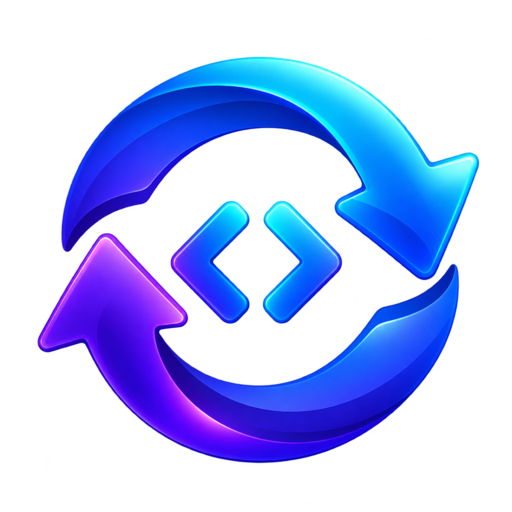
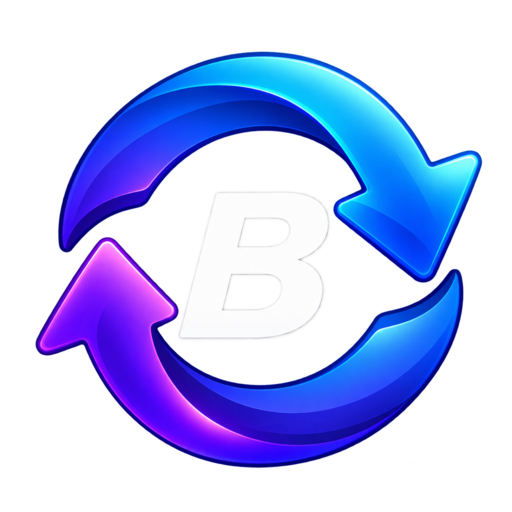
feat: organiza sincronização em fluxo guiado (#10)

diff --git a/tools/studio_sync/static/index.html b/tools/studio_sync/static/index.html
@@ -5,59 +5,52 @@
   <meta name="viewport" content="width=device-width,initial-scale=1">
   <meta name="theme-color" content="#11131c">
   <title>Studio Extensões | Sincronizador</title>
+  <link rel="icon" type="image/png" href="studio-sync.png">
   <link rel="stylesheet" href="/styles.css">
 </head>
 <body>
   <header>
     <div class="header-inner">
-      <div class="brand"><span class="mark">B</span><div><strong>Studio Extensões</strong><small>Sincronizador local</small></div></div>
+      <div class="brand"><img class="mark" src="studio-sync.png" alt=""><div><strong>Studio Extensões</strong><small>Sincronizador local</small></div></div>
       <button class="quiet" id="close">Encerrar</button>
     </div>
   </header>
 
   <main>
     <section class="page-heading">
-      <div><span class="eyebrow">SINCRONIZAÇÃO</span><h1>Artefatos do Studio</h1><p>Compare scripts, componentes, críticas, fontes dinâmicas e relatórios com seu repositório local.</p></div>
+      <div><span class="eyebrow">SINCRONIZAÇÃO</span><h1>Artefatos do Studio</h1><p id="step-description">Entre com sua conta Betha para iniciar.</p></div>
       <div class="status"><span class="status-dot"></span><div><small>Status</small><strong id="status">Carregando...</strong></div></div>
     </section>
 
-    <aside class="network-notice" role="note" aria-label="Requisito de conexão">
-      <span class="network-notice-icon" aria-hidden="true">⌁</span>
-      <div><strong>Conexão com a rede Betha necessária</strong><span>Antes de autenticar ou sincronizar, conecte-se à rede corporativa ou à VPN da Betha.</span></div>
-    </aside>
+    <nav class="wizard-steps" aria-label="Etapas da sincronização">
+      <button class="wizard-step active" data-step="1"><span>1</span><div><strong>Autenticação</strong><small>Conta Betha</small></div></button>
+      <button class="wizard-step" data-step="2" disabled><span>2</span><div><strong>Origem</strong><small>Entidade e sistema</small></div></button>
+      <button class="wizard-step" data-step="3" disabled><span>3</span><div><strong>Destino</strong><small>Pasta local</small></div></button>
+      <button class="wizard-step" data-step="4" disabled><span>4</span><div><strong>Sincronização</strong><small>Revisar e aplicar</small></div></button>
+    </nav>
 
-    <section class="next-step" id="next-step">
-      <span class="next-step-number" id="next-step-number">1</span>
-      <div><small>PRÓXIMO PASSO</small><strong id="next-step-text">Entre com sua conta Betha para começar.</strong></div>
+    <section class="wizard-panel auth-panel" data-panel="1">
+      <div class="wizard-card-copy"><span class="eyebrow">ETAPA 1 DE 4</span><h2>Conecte sua conta Betha</h2><p>A autenticação abre a página oficial do Studio Extensões. Conclua também o MFA quando solicitado.</p></div>
+      <aside class="network-notice" role="note" aria-label="Requisito de conexão">
+        <span class="network-notice-icon" aria-hidden="true">⌁</span>
+        <div><strong>Conexão com a rede Betha necessária</strong><span>Conecte-se à rede corporativa ou à VPN antes de continuar.</span></div>
+      </aside>
+      <div class="account-summary"><div><small>CONTA ATUAL</small><strong id="account">Nenhuma sessão conectada</strong></div><button class="button primary" id="login">Entrar no Studio Extensões <span>↗</span></button></div>
     </section>
 
-    <section class="setup">
-      <div class="section-title"><span>Configuração</span><small>Defina a origem e o destino da sincronização</small></div>
-
-      <div class="setup-grid">
-        <div class="field account-field">
-          <label>Conta Betha</label>
-          <div class="account" id="account">Nenhuma sessão conectada</div>
-          <button class="button secondary" id="login">Entrar no Studio Extensões <span>↗</span></button>
-        </div>
-
-        <div class="field">
-          <label for="entity">Entidade</label>
-          <select id="entity" disabled><option>Autentique-se primeiro</option></select>
-        </div>
-
-        <div class="field">
-          <label for="access">Sistema</label>
-          <select id="access" disabled><option>Selecione uma entidade</option></select>
-        </div>
-
-        <div class="field destination-field">
-          <label for="folder">Repositório local</label>
-          <div class="folder"><input id="folder" placeholder="Nenhuma pasta selecionada" readonly><button id="choose">Escolher</button></div>
-        </div>
+    <section class="wizard-panel" data-panel="2" hidden>
+      <div class="wizard-card-copy"><span class="eyebrow">ETAPA 2 DE 4</span><h2>Selecione a origem</h2><p>Escolha a entidade e o sistema do Studio Extensões que deseja comparar.</p></div>
+      <div class="context-grid">
+        <div class="field"><label for="entity">Entidade</label><select id="entity" disabled><option>Autentique-se primeiro</option></select></div>
+        <div class="field"><label for="access">Sistema</label><select id="access" disabled><option>Selecione uma entidade</option></select></div>
       </div>
+      <div class="wizard-actions"><button class="button secondary wizard-back" data-target="1">← Voltar</button><button class="button primary" id="context-next" disabled>Continuar <span>→</span></button></div>
+    </section>
 
-      <div class="setup-footer">
+    <section class="wizard-panel" data-panel="3" hidden>
+      <div class="wizard-card-copy"><span class="eyebrow">ETAPA 3 DE 4</span><h2>Escolha o destino local</h2><p>Selecione a pasta e quais tipos de artefato serão analisados.</p></div>
+      <div class="field destination-field"><label for="folder">Repositório local</label><div class="folder"><input id="folder" placeholder="Nenhuma pasta selecionada" readonly><button id="choose">Escolher pasta</button></div></div>
+      <div class="artifact-options"><small>ARTEFATOS</small>
         <div class="toggles">
           <label><input id="job" type="checkbox" checked> Scripts</label>
           <label><input id="component" type="checkbox" checked> Componentes</label>
@@ -65,14 +58,14 @@
           <label><input id="dynamic-source" type="checkbox" checked> Fontes dinâmicas</label>
           <label><input id="report" type="checkbox" checked> Relatórios</label>
         </div>
-        <button class="button primary" id="analyze">Analisar diferenças <span>→</span></button>
       </div>
+      <div class="wizard-actions"><button class="button secondary wizard-back" data-target="2">← Voltar</button><button class="button primary" id="analyze">Analisar diferenças <span>→</span></button></div>
     </section>
 
-    <section class="results">
+    <section class="wizard-panel results" data-panel="4" hidden>
       <div class="results-head">
-        <div><span class="eyebrow">PRÉVIA</span><h2>Alterações encontradas</h2></div>
-        <button class="button secondary" id="undo" disabled>Desfazer última sincronização</button>
+        <div><span class="eyebrow">ETAPA 4 DE 4</span><h2>Alterações encontradas</h2><p>Revise os itens antes de sincronizar.</p></div>
+        <div class="results-actions"><button class="button secondary wizard-back" data-target="3">← Trocar pasta</button><button class="button secondary" id="change-context">Trocar entidade/sistema</button><button class="button secondary" id="undo" disabled>Desfazer última sincronização</button></div>
       </div>
 
       <div class="metrics">

diff --git a/tools/studio_sync/static/styles.css b/tools/studio_sync/static/styles.css
@@ -23,11 +23,12 @@ header { height: 60px; border-top: 2px solid var(--violet); border-bottom: 1px s
 .brand div { display: grid; }
 .brand strong { font-size: 14px; }
 .brand small { color: var(--muted); font-size: 10px; }
-.mark { width: 31px; height: 31px; display: grid; place-items: center; border-radius: 7px; background: linear-gradient(145deg, var(--violet), var(--blue)); font-weight: 900; font-style: italic; }
+.mark { width: 34px; height: 34px; display: block; object-fit: contain; filter: drop-shadow(0 1px 2px rgba(0,0,0,.35)); }
 .quiet { padding: 7px 12px; color: #c2c9d6; background: transparent; border: 1px solid var(--line); border-radius: 6px; cursor: pointer; }
 .quiet:hover { background: var(--surface-soft); }
 
 main { width: 100%; max-width: 1600px; margin: auto; padding: 30px clamp(12px, 2vw, 32px) 56px; }
+[hidden] { display: none !important; }
 .page-heading { display: flex; align-items: end; justify-content: space-between; gap: 30px; margin-bottom: 22px; }
 .eyebrow { color: #79a5ff; font-size: 10px; font-weight: 800; letter-spacing: .13em; }
 h1 { margin: 6px 0 4px; font-size: 28px; letter-spacing: -.025em; }
@@ -47,6 +48,36 @@ h1 { margin: 6px 0 4px; font-size: 28px; letter-spacing: -.025em; }
 .next-step div { display: grid; gap: 2px; }
 .next-step small { color: #79a5ff; font-size: 8px; font-weight: 800; letter-spacing: .12em; }
 .next-step strong { color: #dce6fa; font-size: 11px; line-height: 1.35; }
+
+.wizard-steps { display: grid; grid-template-columns: repeat(4, 1fr); margin-bottom: 16px; border: 1px solid var(--line); border-radius: 10px; overflow: hidden; background: #11141d; }
+.wizard-step { min-width: 0; min-height: 66px; display: flex; align-items: center; gap: 10px; padding: 12px 16px; color: #8994a8; text-align: left; background: transparent; border: 0; border-right: 1px solid var(--line); cursor: pointer; }
+.wizard-step:last-child { border-right: 0; }
+.wizard-step > span { width: 28px; height: 28px; flex: 0 0 auto; display: grid; place-items: center; color: #a7b1c3; border: 1px solid #3a4356; border-radius: 50%; font-size: 11px; font-weight: 800; }
+.wizard-step div { min-width: 0; display: grid; gap: 3px; }
+.wizard-step strong { overflow: hidden; font-size: 11px; text-overflow: ellipsis; white-space: nowrap; }
+.wizard-step small { overflow: hidden; color: #687489; font-size: 9px; text-overflow: ellipsis; white-space: nowrap; }
+.wizard-step.active { color: #edf3ff; background: rgba(57,115,231,.12); box-shadow: inset 0 -2px #3973e7; }
+.wizard-step.active > span { color: white; background: var(--blue); border-color: var(--blue); }
+.wizard-step.complete > span { color: #80ddc0; background: rgba(69,197,154,.1); border-color: rgba(69,197,154,.4); }
+.wizard-step:disabled { cursor: default; opacity: .48; }
+.wizard-step.active:disabled { opacity: 1; }
+.wizard-panel { padding: clamp(20px, 3vw, 34px); border: 1px solid var(--line); border-radius: 10px; background: var(--surface); }
+.wizard-card-copy { max-width: 720px; margin-bottom: 24px; }
+.wizard-card-copy h2 { margin: 6px 0 7px; font-size: 22px; }
+.wizard-card-copy p, .results-head p { margin: 0; color: var(--muted); font-size: 12px; line-height: 1.5; }
+.auth-panel { max-width: 780px; margin: 0 auto; }
+.auth-panel .network-notice { margin: 0 0 18px; }
+.account-summary { display: flex; align-items: center; justify-content: space-between; gap: 20px; padding: 16px; border: 1px solid var(--line); border-radius: 8px; background: #10131c; }
+.account-summary > div { min-width: 0; display: grid; gap: 4px; }
+.account-summary small, .artifact-options > small { color: #7f8ba1; font-size: 8px; font-weight: 800; letter-spacing: .12em; }
+.account-summary strong { overflow: hidden; color: #dfe6f2; font-size: 12px; text-overflow: ellipsis; }
+.context-grid { display: grid; grid-template-columns: 1fr 1fr; gap: 18px; max-width: 920px; }
+.artifact-options { margin-top: 18px; padding: 16px; border: 1px solid var(--line); border-radius: 8px; background: #11141d; }
+.artifact-options .toggles { margin-top: 12px; }
+.wizard-actions { display: flex; justify-content: space-between; gap: 12px; margin-top: 28px; padding-top: 18px; border-top: 1px solid var(--line); }
+.wizard-actions .secondary { margin-top: 0; }
+.results-actions { display: flex; align-items: center; justify-content: flex-end; gap: 8px; flex-wrap: wrap; }
+.results-actions .secondary { margin-top: 0; }
 
 .setup, .results { border: 1px solid var(--line); border-radius: 10px; background: var(--surface); }
 .setup { padding: 20px; }
@@ -78,7 +109,7 @@ select:focus, input:focus { outline: 2px solid rgba(57,115,231,.35); outline-off
 .button.secondary:hover:not(:disabled) { border-color: #53617e; }
 .button:disabled { opacity: .38; cursor: not-allowed; }
 
-.results { margin-top: 16px; padding: 20px; }
+.results { padding: 20px; }
 .results-head { display: flex; align-items: center; justify-content: space-between; }
 .results h2 { margin: 5px 0 0; font-size: 17px; }
 .metrics { display: grid; grid-template-columns: repeat(5, 1fr); margin: 17px 0; border: 1px solid var(--line); border-radius: 8px; overflow: hidden; background: #11141d; }
@@ -196,6 +227,13 @@ td { padding: 10px 11px; border-bottom: 1px solid #242a38; color: #d9dfeb; verti
   .account-field { grid-row: auto; }
   .destination-field { grid-column: auto; }
   .setup-footer { align-items: stretch; flex-direction: column; gap: 14px; }
+  .wizard-steps { grid-template-columns: repeat(2, 1fr); }
+  .wizard-step:nth-child(2) { border-right: 0; }
+  .wizard-step:nth-child(-n+2) { border-bottom: 1px solid var(--line); }
+  .context-grid { grid-template-columns: 1fr; }
+  .account-summary, .results-head { align-items: stretch; flex-direction: column; }
+  .account-summary .button { width: 100%; }
+  .results-actions { justify-content: flex-start; }
   .filter-tools, .selection-tools { align-items: stretch; flex-wrap: wrap; }
   .script-search { flex-basis: 100%; }
   .status-filters { width: 100%; overflow-x: auto; padding-bottom: 3px; }
@@ -217,6 +255,12 @@ td { padding: 10px 11px; border-bottom: 1px solid #242a38; color: #d9dfeb; verti
 }
 
 @media (max-width: 560px) {
+  .wizard-step { min-height: 54px; padding: 9px; }
+  .wizard-step small { display: none; }
+  .wizard-panel { padding: 18px 14px; }
+  .wizard-actions { align-items: stretch; flex-direction: column-reverse; }
+  .wizard-actions .button, .results-actions .button { width: 100%; }
+  .results-actions { flex-direction: column; }
   .results { padding: 14px 10px; }
   .type-column, .type-cell { display: none; }
   .status-column { width: 88px; }

diff --git a/tools/studio_sync/static/app.js b/tools/studio_sync/static/app.js
@@ -13,6 +13,62 @@ let pageSize = 20;
 let toastTimer;
 let actionController;
 let folderController;
+let currentStep = 1;
+let analysisReady = false;
+
+const stepDescriptions = {
+  1: 'Entre com sua conta Betha para iniciar.',
+  2: 'Selecione a entidade e o sistema de origem.',
+  3: 'Escolha a pasta local e os tipos de artefato.',
+  4: 'Revise as diferenças e sincronize os itens selecionados.'
+};
+
+function contextSelected() {
+  return authenticated && Boolean($('#entity').value) && Boolean($('#access').value) && !$('#access').disabled;
+}
+
+function availableStep() {
+  if (!authenticated) return 1;
+  if (analysisReady) return 4;
+  if (contextSelected()) return 3;
+  return 2;
+}
+
+function updateWizard() {
+  const maximum = availableStep();
+  if (currentStep > maximum) currentStep = maximum;
+  document.querySelectorAll('[data-panel]').forEach(panel => {
+    panel.hidden = Number(panel.dataset.panel) !== currentStep;
+  });
+  document.querySelectorAll('.wizard-step').forEach(step => {
+    const number = Number(step.dataset.step);
+    step.disabled = busy || number > maximum;
+    step.classList.toggle('active', number === currentStep);
+    step.classList.toggle('complete', number < currentStep || number < maximum);
+    step.setAttribute('aria-current', number === currentStep ? 'step' : 'false');
+  });
+  $('#step-description').textContent = stepDescriptions[currentStep];
+  $('#context-next').disabled = busy || !contextSelected();
+  updateAnalyzeAvailability();
+}
+
+function goToStep(step) {
+  if (step > availableStep()) return;
+  currentStep = step;
+  updateWizard();
+  document.querySelector(`[data-panel="${step}"]`)?.querySelector('select, input, button:not(:disabled)')?.focus();
+  window.scrollTo({top: 0, behavior: 'smooth'});
+}
+
+function invalidateAnalysis() {
+  if (!analysisReady && !changes.length) return;
+  analysisReady = false;
+  changes = [];
+  selectedChanges.clear();
+  currentPage = 1;
+  renderChanges();
+  updateWizard();
+}
 
 function toast(message) {
   const element = $('#toast');
@@ -139,19 +195,7 @@ function showLoading(visible, message = 'Aguarde um momento...') {
 }
 
 function updateGuidance() {
-  let step = '1';
-  let message = 'Entre com sua conta Betha para começar.';
-  if (authenticated && !$('#folder').value.trim()) {
-    step = '2'; message = 'Escolha a pasta que será usada como repositório local.';
-  } else if (authenticated && !changes.length) {
-    step = '3'; message = 'Analise as diferenças entre o Studio e o repositório selecionado.';
-  } else if (changes.length && !selectedChanges.size) {
-    step = '4'; message = 'Pesquise e selecione os scripts que deseja sincronizar.';
-  } else if (selectedChanges.size) {
-    step = '5'; message = `Revise e sincronize os ${selectedChanges.size} script(s) selecionado(s).`;
-  }
-  $('#next-step-number').textContent = step;
-  $('#next-step-text').textContent = message;
+  updateWizard();
 }
 
 function updateSelection() {
@@ -172,7 +216,7 @@ function updateSelection() {
 }
 
 function updateAnalyzeAvailability() {
-  $('#analyze').disabled = busy || !$('#folder').value.trim();
+  $('#analyze').disabled = busy || !contextSelected() || !$('#folder').value.trim();
 }
 
 function renderChanges() {
@@ -259,7 +303,7 @@ async function refresh() {
   $('#undo').disabled = busy || !state.canUndo;
   showLoading(busy, state.status);
   renderChanges();
-  updateAnalyzeAvailability();
+  updateWizard();
 }
 
 async function waitUntilIdle() {
@@ -295,9 +339,14 @@ $('#loading-cancel').onclick = async () => {
   catch (_) { toast('A aplicação foi atualizada. Feche-a e abra novamente para habilitar o cancelamento.'); }
 };
 
-$('#login').onclick = () => action(signal => request('/api/authenticate', {
-  method: 'POST', signal, body: JSON.stringify({resetSession: authenticated})
-}));
+$('#login').onclick = () => action(async signal => {
+  await request('/api/authenticate', {
+    method: 'POST', signal, body: JSON.stringify({resetSession: authenticated})
+  });
+  authenticated = true;
+  analysisReady = false;
+  currentStep = 2;
+});
 
 async function browseFolder(path = '') {
   folderController?.abort();
@@ -331,12 +380,30 @@ $('#folder-up').onclick = () => folderParent && browseFolder(folderParent);
 $('#folder-go').onclick = () => browseFolder($('#folder-current').value);
 $('#folder-current').onkeydown = event => { if (event.key === 'Enter') browseFolder(event.currentTarget.value); };
 $('#folder-select').onclick = () => {
+  const changed = $('#folder').value !== $('#folder-current').value;
   $('#folder').value = $('#folder-current').value;
   $('#folder-modal').hidden = true;
   document.body.classList.remove('modal-open');
-  updateAnalyzeAvailability();
-  updateGuidance();
+  if (changed) invalidateAnalysis();
+  updateWizard();
 };
+
+document.querySelectorAll('.wizard-step').forEach(step => {
+  step.onclick = () => goToStep(Number(step.dataset.step));
+});
+document.querySelectorAll('.wizard-back').forEach(button => {
+  button.onclick = () => goToStep(Number(button.dataset.target));
+});
+$('#context-next').onclick = () => goToStep(3);
+$('#change-context').onclick = () => goToStep(2);
+$('#entity').addEventListener('change', () => {
+  invalidateAnalysis();
+  updateWizard();
+});
+$('#access').addEventListener('change', () => {
+  invalidateAnalysis();
+  updateWizard();
+});
 
 let searchTimer;
 $('#script-search').oninput = () => {
@@ -404,6 +471,9 @@ $('#analyze').onclick = () => action(async signal => {
     method: 'POST', signal, body: JSON.stringify({changes: firstPage.map(change => change.index)})
   });
   await loadChanges(false, false);
+  analysisReady = true;
+  currentStep = 4;
+  updateWizard();
 });
 
 $('#sync').onclick = async () => {

diff --git a/tools/studio_sync/static/source.js b/tools/studio_sync/static/source.js
@@ -1,1 +1,1 @@
-(()=>{const entity=document.querySelector('#entity');const system=document.querySelector('#access');let signature='';let loadedEntity='';const escapeText=value=>String(value??'').replace(/[&<>"']/g,char=>({'&':'&amp;','<':'&lt;','>':'&gt;','"':'&quot;',"'":'&#39;'}[char]));function fillSystems(entities){const selected=entities.find(item=>item.id===entity.value);const previous=system.value;system.innerHTML=selected?.systems?.length?selected.systems.map(item=>`<option value="${item.access}">${escapeText(item.label)}</option>`).join(''):'<option value="">Selecione a entidade para consultar os sistemas</option>';system.disabled=!selected?.systems?.length;if([...system.options].some(option=>option.value===previous))system.value=previous}async function loadSystems(){if(!entity.value)return;loadedEntity=entity.value;system.disabled=true;system.innerHTML='<option>Consultando permissões...</option>';try{const response=await fetch('/api/systems',{method:'POST',headers:{'Content-Type':'application/json'},body:JSON.stringify({entity:entity.value})});const data=await response.json();if(!response.ok)throw Error(data.error||'Não foi possível consultar os sistemas');signature='';await refresh()}catch(error){loadedEntity='';system.innerHTML=`<option>${escapeText(error.message)}</option>`}}async function refresh(){try{const response=await fetch('/api/state',{cache:'no-store'});if(!response.ok)return;const state=await response.json();const entities=state.entities||[];const next=JSON.stringify({entities,preferred:state.preferredEntity});if(next===signature)return;signature=next;const previous=entity.value;entity.innerHTML=entities.length?entities.map(item=>`<option value="${escapeText(item.id)}" title="${escapeText(item.label)}">${escapeText(item.label)}</option>`).join(''):'<option value="">Autentique-se primeiro</option>';entity.disabled=!entities.length;if(entities.some(item=>item.id===previous))entity.value=previous;else if(entities.some(item=>item.id===state.preferredEntity))entity.value=state.preferredEntity;entity.title=entity.selectedOptions[0]?.textContent||'';fillSystems(entities);entity.onchange=()=>{entity.title=entity.selectedOptions[0]?.textContent||'';fillSystems(entities);loadSystems()};if(entity.value&&loadedEntity!==entity.value)loadSystems()}catch{}}refresh();setInterval(refresh,1000)})();
+(()=>{const entity=document.querySelector('#entity');const system=document.querySelector('#access');let signature='';let loadedEntity='';const escapeText=value=>String(value??'').replace(/[&<>"']/g,char=>({'&':'&amp;','<':'&lt;','>':'&gt;','"':'&quot;',"'":'&#39;'}[char]));function fillSystems(entities){const selected=entities.find(item=>item.id===entity.value);const previous=system.value;system.innerHTML=selected?.systems?.length?selected.systems.map(item=>`<option value="${item.access}">${escapeText(item.label)}</option>`).join(''):'<option value="">Selecione a entidade para consultar os sistemas</option>';system.disabled=!selected?.systems?.length;if([...system.options].some(option=>option.value===previous))system.value=previous;system.dispatchEvent(new Event('change'))}async function loadSystems(){if(!entity.value)return;loadedEntity=entity.value;system.disabled=true;system.innerHTML='<option>Consultando permissões...</option>';try{const response=await fetch('/api/systems',{method:'POST',headers:{'Content-Type':'application/json'},body:JSON.stringify({entity:entity.value})});const data=await response.json();if(!response.ok)throw Error(data.error||'Não foi possível consultar os sistemas');signature='';await refresh()}catch(error){loadedEntity='';system.innerHTML=`<option>${escapeText(error.message)}</option>`}}async function refresh(){try{const response=await fetch('/api/state',{cache:'no-store'});if(!response.ok)return;const state=await response.json();const entities=state.entities||[];const next=JSON.stringify({entities,preferred:state.preferredEntity});if(next===signature)return;signature=next;const previous=entity.value;entity.innerHTML=entities.length?entities.map(item=>`<option value="${escapeText(item.id)}" title="${escapeText(item.label)}">${escapeText(item.label)}</option>`).join(''):'<option value="">Autentique-se primeiro</option>';entity.disabled=!entities.length;if(entities.some(item=>item.id===previous))entity.value=previous;else if(entities.some(item=>item.id===state.preferredEntity))entity.value=state.preferredEntity;entity.title=entity.selectedOptions[0]?.textContent||'';fillSystems(entities);entity.onchange=()=>{entity.title=entity.selectedOptions[0]?.textContent||'';fillSystems(entities);loadSystems()};if(entity.value&&loadedEntity!==entity.value)loadSystems()}catch{}}refresh();setInterval(refresh,1000)})();

diff --git a/tools/studio_sync/tests/test_web.py b/tools/studio_sync/tests/test_web.py
@@ -12,10 +12,17 @@ class WebSmokeTests(unittest.TestCase):
         self.assertIn("Desfazer última sincronização", html)
         self.assertIn('id="loading-cancel"', html)
         self.assertIn('id="confirm-eyebrow"', html)
+        self.assertIn('src="studio-sync.png"', html)
+        self.assertIn('rel="icon"', html)
         self.assertIn('class="type-column"', html)
+        self.assertEqual(html.count('data-step="'), 4)
+        self.assertIn('data-panel="1"', html)
+        self.assertIn('data-panel="4"', html)
         javascript = (STATIC / "app.js").read_text(encoding="utf-8")
         self.assertNotIn("window.confirm", javascript)
         self.assertIn("CONFIRMAR RESTAURAÇÃO", javascript)
+        self.assertIn("function goToStep(step)", javascript)
+        self.assertIn("invalidateAnalysis", javascript)
         self.assertFalse(state["authenticated"])
         self.assertFalse(state["canUndo"])
 
